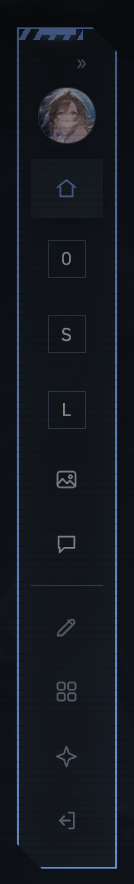
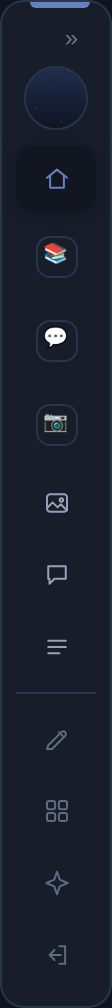
Add files via upload

Changed region(s): [[0.0, 0.0, 1.0, 1.0], [0.6429, 0.3054, 0.6964, 0.3665], [0.6429, 0.2138, 0.6964, 0.2749]]

diff --git a/luvlog/widgets-menu.html b/luvlog/widgets-menu.html
@@ -22,7 +22,7 @@
   <main class="doc">
     <p class="crumb">러브로그 · 위젯</p>
     <h1>☰ 메뉴 위젯</h1>
-    <p class="lead">카테고리를 상단 줄 대신 세로 목록으로 모아 보여주는 위젯입니다. 위젯 추가 목록 맨 위에 있으며, 홈당 하나만 둘 수 있습니다.</p><h2 id="목록-구성">목록 구성</h2><p>홈·카테고리·갤러리·방명록·전체가 탭 순서대로 들어가고, 글 수 숫자와 새 방명록 표시도 함께 나옵니다. 사진첩 카테고리는 ▸를 누르면 폴더 목록이 펼쳐지고, 폴더를 누르면 바로 열립니다. 홈 주인에게는 글쓰기·위젯 편집·꾸미기·로그아웃 줄이 함께 보이며, 방문자에게는 보이지 않습니다.</p><figure class="shot" data-id="ll-w-menu"><img src="../img/ll-w-menu.png" alt="" loading="lazy" onerror="this.closest('figure').classList.add('empty')"><span class="ph"><b>사진 자리</b><i>img/ll-w-menu.png</i></span><figcaption>메뉴 위젯 — 프로필 사진·카테고리 목록·주인 메뉴</figcaption></figure><h2 id="메뉴-안에-넣기">메뉴 안에 넣기</h2><p>검색·프로필·링크 목록·이웃 홈·디데이·방문자수·고정글·공지·BGM·최신글 위젯은 각 위젯 ✎의 「메뉴 안에 넣기」를 켜면 카드 없이 메뉴 안으로 들어옵니다. 순서는 위젯 목록의 순서를 따르고, 끄면 원래 자리로 돌아갑니다.</p><h2 id="꾸미기-옵션">꾸미기 옵션</h2><ul><li>글 수 숫자 · 선 아이콘 · 제목 줄 숨김 · 담은 위젯을 카테고리 위로.</li><li>항목 기호 — 카테고리마다 이모지나 문자를 넣으면 펼친 목록의 아이콘 자리와 접힌 레일에 그 기호가 뜹니다. 비우면 기본(아이콘 · 접으면 앞 글자).</li><li>선택 표시 — 지금 보고 있는 항목의 강조 모양을 밝은 카드(기본) · 채움 알약(포인트색) · 왼쪽 선 중에서 고릅니다.</li><li>위에 프로필 사진·이름 — 어느 헤더에서든 메뉴 맨 위에 원형 사진과 이름·설명을 올립니다. 사진은 선택(없으면 이름만)이며, 확대·양옆·위아래 슬라이더와 미리보기로 보이는 부분을 맞춥니다. 이름·설명을 직접 쓰거나 비워서 홈 이름·부제를 따르게 할 수 있습니다.</li><li>주인 메뉴 켜고 끄기 · 오른쪽 아래 버튼 3개 숨기기 · 위쪽 카테고리 줄 숨기기 · 스크롤 따라오기(메뉴와 그 아래 위젯이 화면을 따라오되, 화면보다 길면 따라오지 않습니다).</li></ul><h2 id="접기">« 접기 — 아이콘 레일</h2><p>메뉴 오른쪽 위 «를 누르면 폭 56px 아이콘 레일로 접힙니다. 일반 카테고리는 이름 앞 글자(또는 지정한 기호)로 표시되고, 프로필 사진은 작은 원으로 남습니다. 그 칸에 메뉴만 있다면 칸도 함께 좁아져 가운데가 넓어집니다. »로 다시 펼치며, 접힘은 저장되지 않는 보기 상태입니다.</p><figure class="shot" data-id="ll-w-menu-rail"><img src="../img/ll-w-menu-rail.png" alt="" loading="lazy" onerror="this.closest('figure').classList.add('empty')"><span class="ph"><b>사진 자리</b><i>img/ll-w-menu-rail.png</i></span><figcaption>« 접힌 아이콘 레일</figcaption></figure><h2 id="헤더별-동작">헤더별 동작 · 띄우기 · 폰</h2><ul><li>가로 헤더 — 독립 카드로 섭니다.</li><li>사이드 프로필형 — 「사진 카드에 붙이기」를 켜면 사진 카드 아래로 한 판으로 이어집니다.</li><li>세로 칼럼 — 기둥 칸에는 위젯이 들어가지 않으므로 메뉴도 가운데·반대쪽 칸에 놓입니다.</li><li>📌 띄우기 — 칸에서 떼어 화면 어디든 둘 수 있습니다(PC 전용). 「띄웠을 때 펼침 방향」에서 「왼쪽으로(오른쪽 모서리 고정)」를 고르면 화면 오른쪽 구석에 두고 접었다 펴도 밖으로 나가지 않습니다.</li><li>폰 — 왼쪽 위 ☰ 버튼으로 서랍처럼 열리고, 항목을 누르면 이동하면서 닫힙니다.</li></ul>
+    <p class="lead">카테고리를 상단 줄 대신 세로 목록으로 모아 보여주는 위젯입니다. 위젯 추가 목록 맨 위에 있으며, 홈당 하나만 둘 수 있습니다.</p><h2 id="목록-구성">목록 구성</h2><div class="split"><figure class="shot" data-id="ll-w-menu"><img src="../img/ll-w-menu.png" alt="" loading="lazy" onerror="this.closest('figure').classList.add('empty')"><span class="ph"><b>사진 자리</b><i>img/ll-w-menu.png</i></span><figcaption>프로필 사진 · 카테고리 목록 · 담은 위젯 · 주인 메뉴</figcaption></figure><div><p>홈·카테고리·갤러리·방명록·전체가 탭 순서대로 들어가고, 글 수 숫자와 새 방명록 표시도 함께 나옵니다. 사진첩 카테고리는 ▸를 누르면 폴더 목록이 펼쳐지고, 폴더를 누르면 바로 열립니다.</p><p>홈 주인에게는 글쓰기·위젯 편집·꾸미기·로그아웃 줄이 함께 보이며, 방문자에게는 보이지 않습니다. 메뉴 안에 담은 위젯(그림의 검색·디데이)은 카테고리 목록 아래에 카드 없이 쌓입니다.</p></div></div><h2 id="메뉴-안에-넣기">메뉴 안에 넣기</h2><p>검색·프로필·링크 목록·이웃 홈·디데이·방문자수·고정글·공지·BGM·최신글 위젯은 각 위젯 ✎의 「메뉴 안에 넣기」를 켜면 카드 없이 메뉴 안으로 들어옵니다. 순서는 위젯 목록의 순서를 따르고, 끄면 원래 자리로 돌아갑니다.</p><h2 id="꾸미기-옵션">꾸미기 옵션</h2><ul><li>글 수 숫자 · 선 아이콘 · 제목 줄 숨김 · 담은 위젯을 카테고리 위로.</li><li>항목 기호 — 카테고리마다 이모지나 문자를 넣으면 펼친 목록의 아이콘 자리와 접힌 레일에 그 기호가 뜹니다. 비우면 기본(아이콘 · 접으면 앞 글자).</li><li>선택 표시 — 지금 보고 있는 항목의 강조 모양을 밝은 카드(기본) · 채움 알약(포인트색) · 왼쪽 선 중에서 고릅니다.</li><li>위에 프로필 사진·이름 — 어느 헤더에서든 메뉴 맨 위에 원형 사진과 이름·설명을 올립니다. 사진은 선택(없으면 이름만)이며, 확대·양옆·위아래 슬라이더와 미리보기로 보이는 부분을 맞춥니다. 이름·설명을 직접 쓰거나 비워서 홈 이름·부제를 따르게 할 수 있습니다.</li><li>주인 메뉴 켜고 끄기 · 오른쪽 아래 버튼 3개 숨기기 · 위쪽 카테고리 줄 숨기기 · 스크롤 따라오기(메뉴와 그 아래 위젯이 화면을 따라오되, 화면보다 길면 따라오지 않습니다).</li></ul><h2 id="접기">« 접기 — 아이콘 레일</h2><div class="split rail"><figure class="shot" data-id="ll-w-menu-rail"><img src="../img/ll-w-menu-rail.png" alt="" loading="lazy" onerror="this.closest('figure').classList.add('empty')"><span class="ph"><b>사진 자리</b><i>img/ll-w-menu-rail.png</i></span><figcaption>« 접힌 레일</figcaption></figure><div><p>메뉴 오른쪽 위 «를 누르면 폭 56px 아이콘 레일로 접힙니다. 홈·갤러리·방명록·전체는 아이콘으로, 일반 카테고리는 이름 앞 글자(또는 지정한 기호)로 표시되고, 프로필 사진은 작은 원으로 남습니다.</p><p>그 칸에 메뉴만 있다면 칸도 함께 좁아져 가운데가 넓어집니다. 다른 위젯이 같은 칸에 있으면 레일만 좁아집니다. »로 다시 펼치며, 접힘은 저장되지 않는 보기 상태라 새로고침하면 펼쳐진 채로 시작합니다.</p></div></div><h2 id="헤더별-동작">헤더별 동작 · 띄우기 · 폰</h2><ul><li>가로 헤더 — 독립 카드로 섭니다.</li><li>사이드 프로필형 — 「사진 카드에 붙이기」를 켜면 사진 카드 아래로 한 판으로 이어집니다.</li><li>세로 칼럼 — 기둥 칸에는 위젯이 들어가지 않으므로 메뉴도 가운데·반대쪽 칸에 놓입니다.</li><li>📌 띄우기 — 칸에서 떼어 화면 어디든 둘 수 있습니다(PC 전용). 「띄웠을 때 펼침 방향」에서 「왼쪽으로(오른쪽 모서리 고정)」를 고르면 화면 오른쪽 구석에 두고 접었다 펴도 밖으로 나가지 않습니다.</li><li>폰 — 왼쪽 위 ☰ 버튼으로 서랍처럼 열리고, 항목을 누르면 이동하면서 닫힙니다.</li></ul>
     <nav class="pn" id="pn"></nav>
   </main>
 </div>

diff --git a/assets/style.css b/assets/style.css
@@ -123,3 +123,10 @@ ol.toc li a:hover{background:#fff;color:var(--ink)}
   .upd b{grid-column:2;justify-self:start}
   .upd ul{grid-column:2}
 }
+/* 좁은 그림은 왼쪽 칼럼, 설명은 오른쪽 (메뉴 위젯 페이지) */
+.split{display:grid;grid-template-columns:250px minmax(0,1fr);gap:30px;align-items:start;margin:14px 0 28px}
+.split.rail{grid-template-columns:84px minmax(0,1fr)}
+.split figure.shot{margin:0}
+.split .shot img{width:100%;height:auto;display:block}
+.split>div>p:first-child{margin-top:0}
+@media(max-width:720px){.split,.split.rail{grid-template-columns:1fr}.split figure.shot{max-width:260px}.split.rail figure.shot{max-width:84px}}
